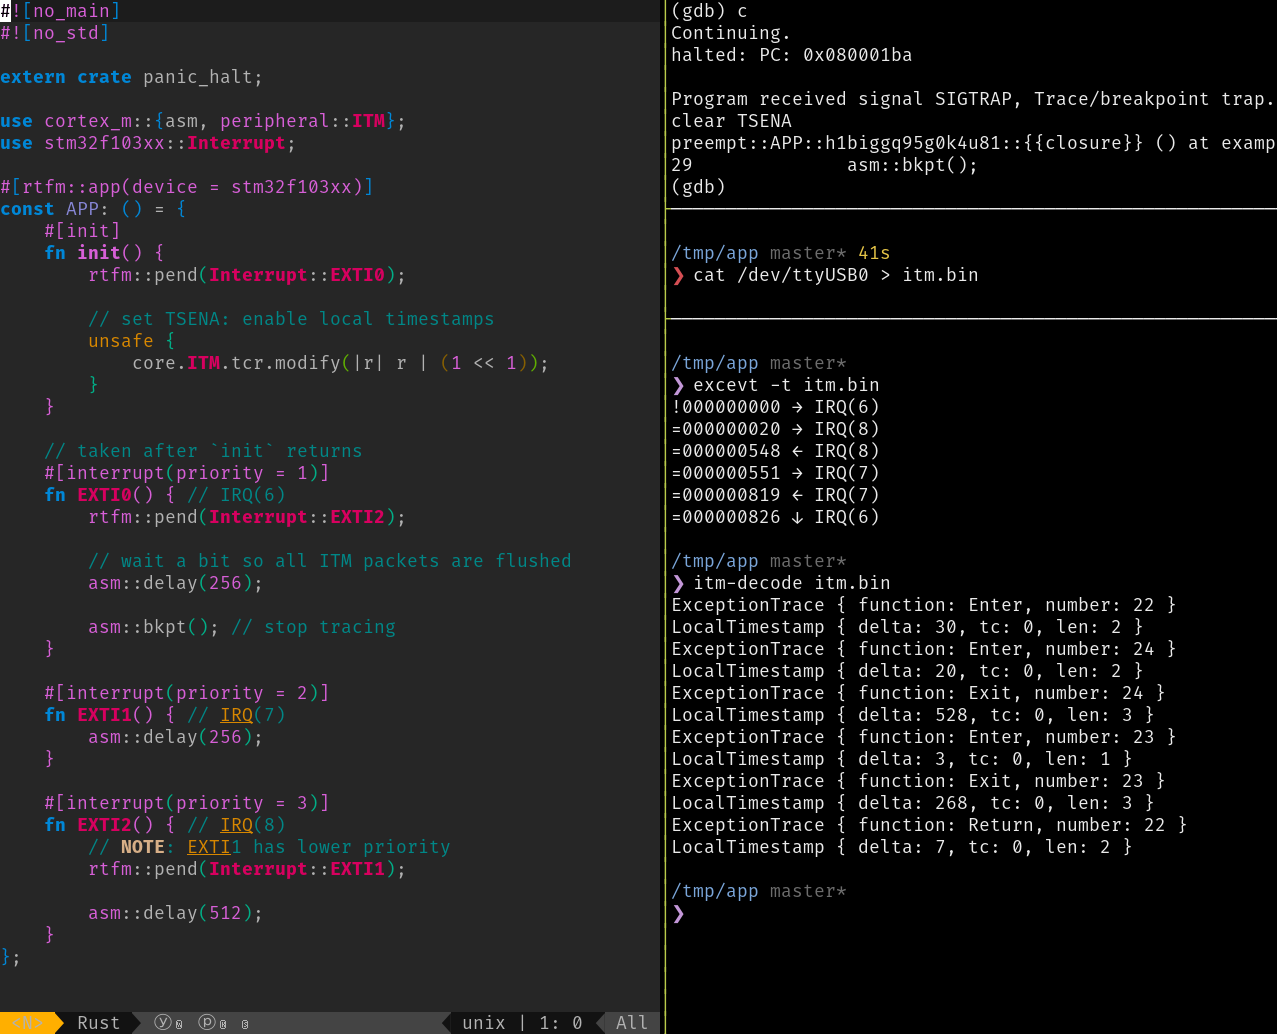
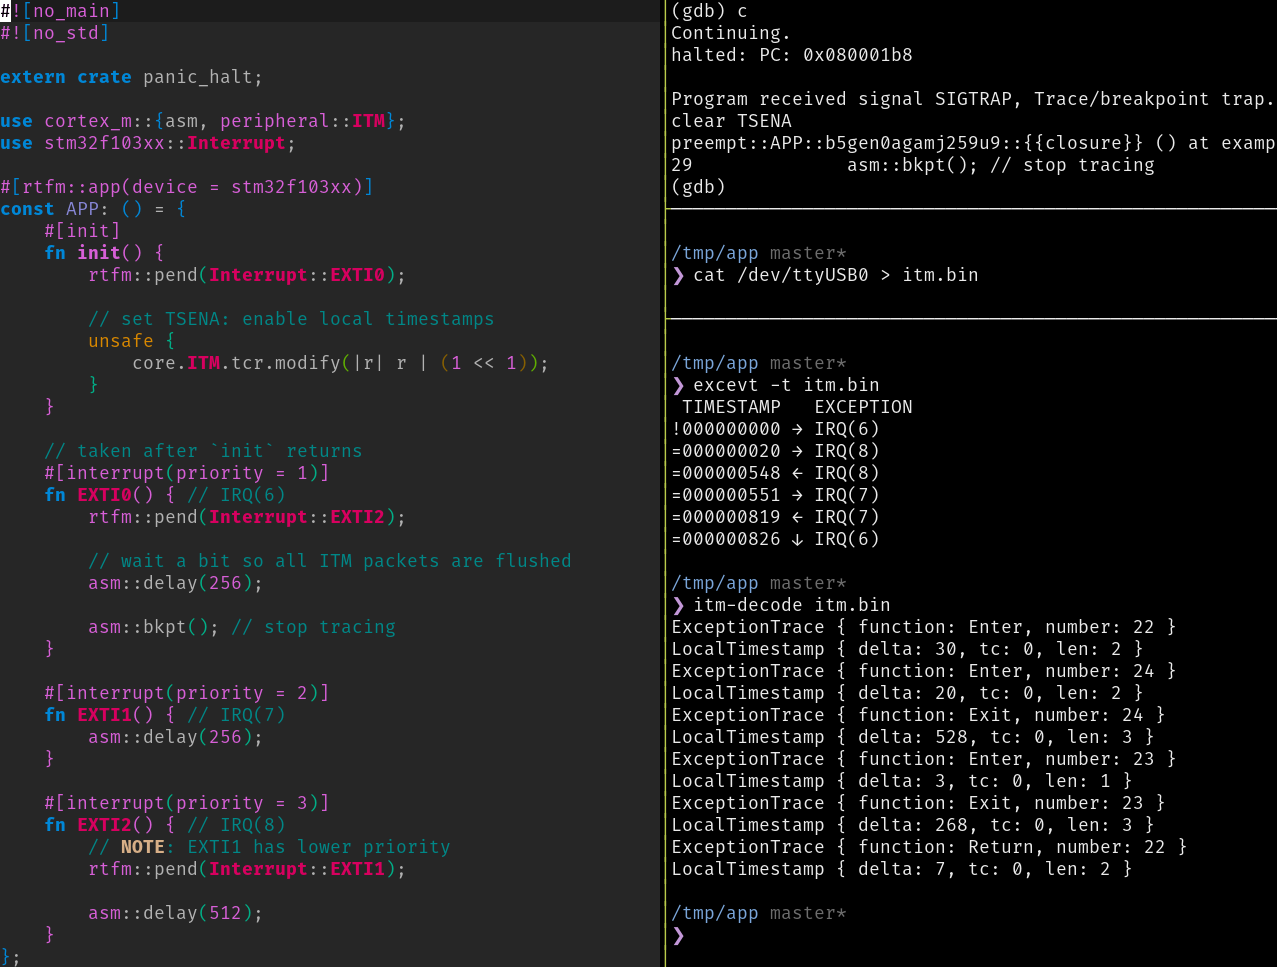
add header to excevt output

diff --git a/src/bin/excevt.rs b/src/bin/excevt.rs
@@ -61,6 +61,8 @@ fn run() -> Result<(), failure::Error> {
     let stdout = io::stdout();
     let mut stdout = stdout.lock();
 
+    writeln!(stdout, " TIMESTAMP   EXCEPTION")?;
+
     let mut stream = Stream::new(reader, matches.is_present("follow"));
 
     const MAX: u32 = 1_000_000_000;
